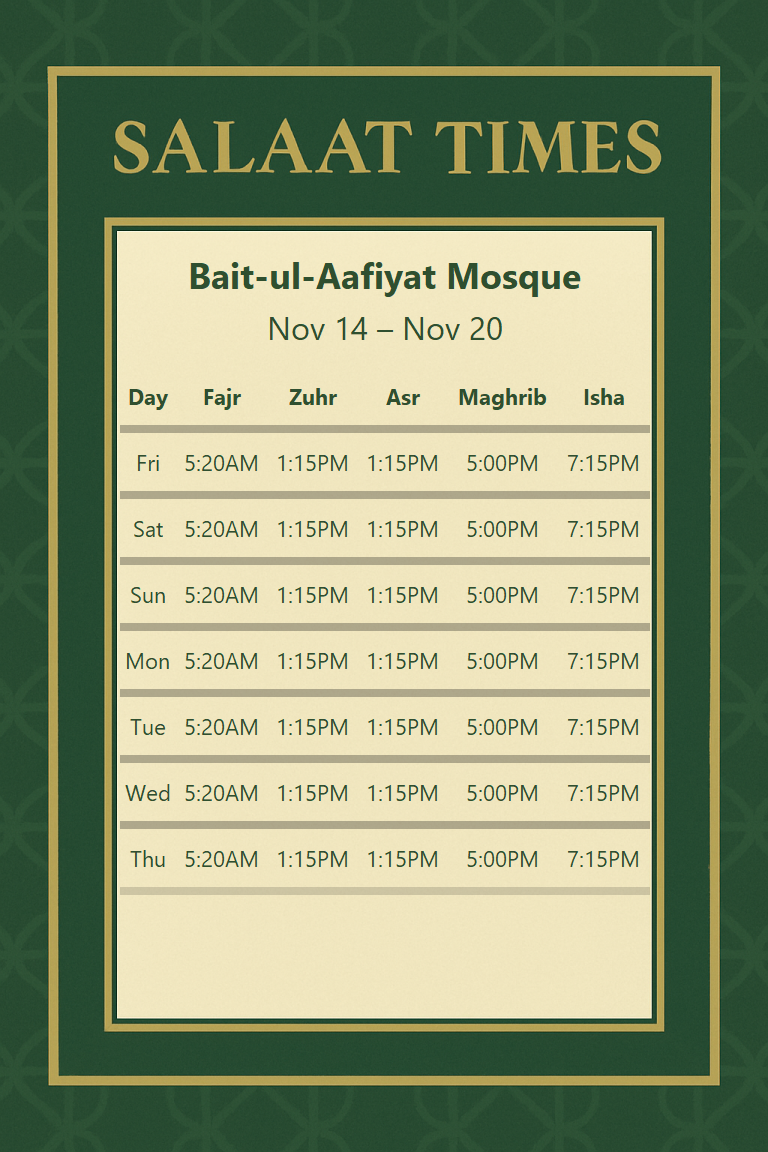
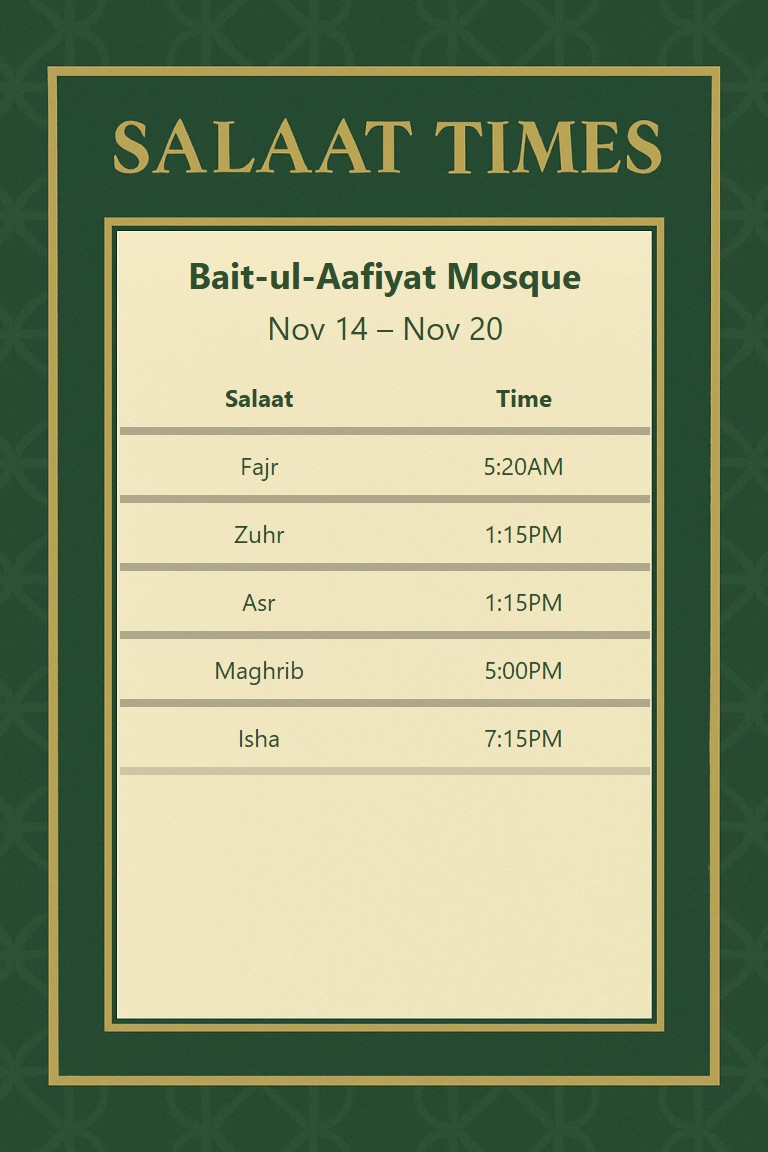
weekly times shown at one time

Changed region(s): [[0.1562, 0.3125, 0.8438, 0.7812]]

diff --git a/projects/salaattimes/output/salaat_week_2025-11-14_to_2025-11-20.html b/projects/salaattimes/output/salaat_week_2025-11-14_to_2025-11-20.html
@@ -46,7 +46,7 @@
   table {
     width: 100%;
     border-collapse: collapse;
-    font-size: 22px;
+    font-size: 24px;
     color: #2f4f2f;
     background: transparent;
     margin-top: 8px;
@@ -70,20 +70,14 @@
     <div class="range">Nov 14 – Nov 20</div>
     <table>
       <tr>
-        <th>Day</th>
-        <th>Fajr</th>
-        <th>Zuhr</th>
-        <th>Asr</th>
-        <th>Maghrib</th>
-        <th>Isha</th>
+        <th>Salaat</th>
+        <th>Time</th>
       </tr>
-      <tr><td>Fri</td><td>5:20AM</td><td>1:15PM</td><td>1:15PM</td><td>5:00PM</td><td>7:15PM</td></tr>
-      <tr><td>Sat</td><td>5:20AM</td><td>1:15PM</td><td>1:15PM</td><td>5:00PM</td><td>7:15PM</td></tr>
-      <tr><td>Sun</td><td>5:20AM</td><td>1:15PM</td><td>1:15PM</td><td>5:00PM</td><td>7:15PM</td></tr>
-      <tr><td>Mon</td><td>5:20AM</td><td>1:15PM</td><td>1:15PM</td><td>5:00PM</td><td>7:15PM</td></tr>
-      <tr><td>Tue</td><td>5:20AM</td><td>1:15PM</td><td>1:15PM</td><td>5:00PM</td><td>7:15PM</td></tr>
-      <tr><td>Wed</td><td>5:20AM</td><td>1:15PM</td><td>1:15PM</td><td>5:00PM</td><td>7:15PM</td></tr>
-      <tr><td>Thu</td><td>5:20AM</td><td>1:15PM</td><td>1:15PM</td><td>5:00PM</td><td>7:15PM</td></tr>
+      <tr><td>Fajr</td><td>5:20AM</td></tr>
+      <tr><td>Zuhr</td><td>1:15PM</td></tr>
+      <tr><td>Asr</td><td>1:15PM</td></tr>
+      <tr><td>Maghrib</td><td>5:00PM</td></tr>
+      <tr><td>Isha</td><td>7:15PM</td></tr>
     </table>
   </div>
 </div>

diff --git a/projects/salaattimes/generate_flyers.py b/projects/salaattimes/generate_flyers.py
@@ -58,22 +58,19 @@ def render_html_to_png(html_path: Path, png_path: Path):
 
 
 def build_html_for_week(week_df: pd.DataFrame, start: date, end: date) -> str:
-    """Build HTML for one Friday–Thursday week."""
-    rows_html = []
-    for _, r in week_df.sort_values("d_date").iterrows():
-        day_name = r["d_date"].strftime("%a")
-        rows_html.append(
-            "<tr>"
-            f"<td>{day_name}</td>"
-            f"<td>{to_ampm(r['fajr_jamah'])}</td>"
-            f"<td>{to_ampm(r['zuhr_jamah'])}</td>"
-            f"<td>{to_ampm(r['asr_jamah'])}</td>"
-            f"<td>{to_ampm(r['maghrib_jamah'])}</td>"
-            f"<td>{to_ampm(r['isha_jamah'])}</td>"
-            "</tr>"
-        )
+    """
+    Build HTML for one Friday–Thursday week, using a single set of
+    jamā‘at times (assumed constant through the week).
+    """
+    # Take the first row of the week as the representative times
+    r = week_df.sort_values("d_date").iloc[0]
 
-    rows_block = "\n      ".join(rows_html)
+    fajr_time    = to_ampm(r["fajr_jamah"])
+    zuhr_time    = to_ampm(r["zuhr_jamah"])
+    asr_time     = to_ampm(r["asr_jamah"])
+    maghrib_time = to_ampm(r["maghrib_jamah"])
+    isha_time    = to_ampm(r["isha_jamah"])
+
     date_range_text = f"{fmt_header_date(start)} – {fmt_header_date(end)}"
 
     html = f"""<!DOCTYPE html>
@@ -124,7 +121,7 @@ def build_html_for_week(week_df: pd.DataFrame, start: date, end: date) -> str:
   table {{
     width: 100%;
     border-collapse: collapse;
-    font-size: 22px;
+    font-size: 48px;
     color: #2f4f2f;
     background: transparent;
     margin-top: 8px;
@@ -148,14 +145,14 @@ def build_html_for_week(week_df: pd.DataFrame, start: date, end: date) -> str:
     <div class="range">{date_range_text}</div>
     <table>
       <tr>
-        <th>Day</th>
-        <th>Fajr</th>
-        <th>Zuhr</th>
-        <th>Asr</th>
-        <th>Maghrib</th>
-        <th>Isha</th>
+        <th>Salaat</th>
+        <th>Time</th>
       </tr>
-      {rows_block}
+      <tr><td>Fajr</td><td>{fajr_time}</td></tr>
+      <tr><td>Zuhr</td><td>{zuhr_time}</td></tr>
+      <tr><td>Asr</td><td>{asr_time}</td></tr>
+      <tr><td>Maghrib</td><td>{maghrib_time}</td></tr>
+      <tr><td>Isha</td><td>{isha_time}</td></tr>
     </table>
   </div>
 </div>
@@ -196,6 +193,7 @@ def main():
 
     def friday_starts():
         cur = min_date
+        # advance to first Friday
         while cur.weekday() != 4:
             cur += timedelta(days=1)
             if cur > max_date:
@@ -211,6 +209,7 @@ def main():
             end = min(start + timedelta(days=6), max_date)
             targets.append((start, end))
     else:
+        # Current week = last Friday <= today
         past = [d for d in df["d_date"] if d <= today]
         if past:
             fridays = [d for d in past if d.weekday() == 4]
